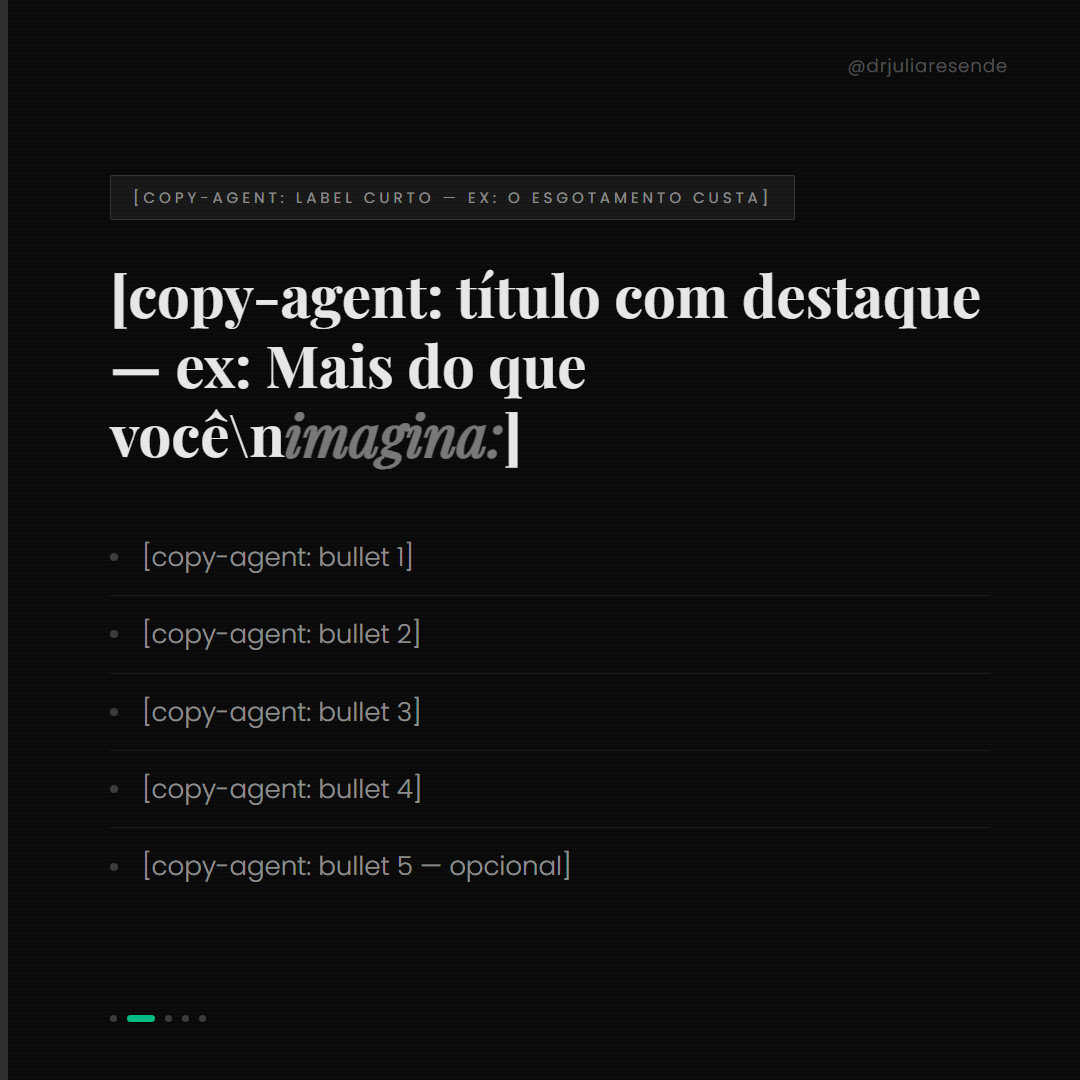
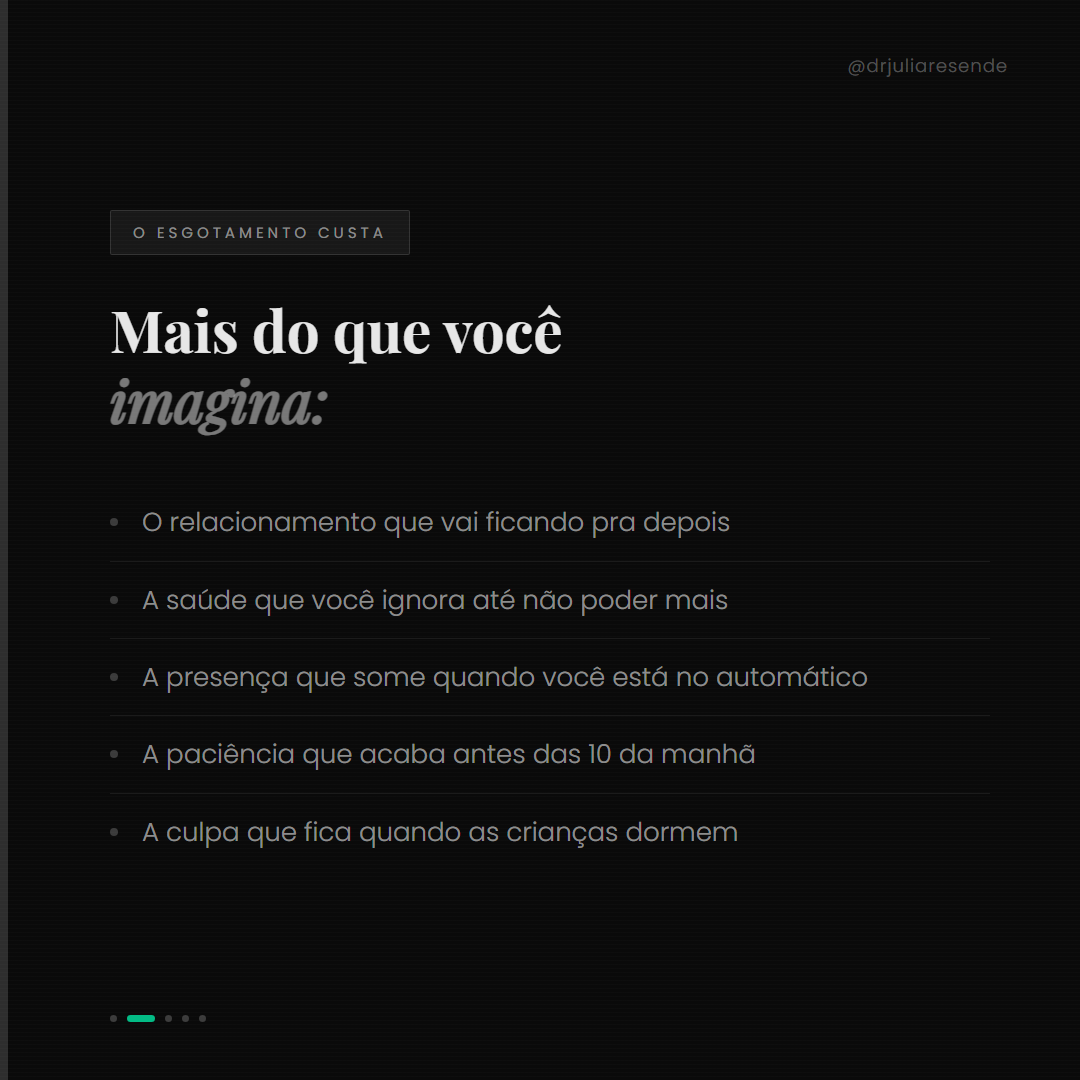
feat: carrossel-03 slides finais gerados — Briefing #2 copy real — 5 PNGs 2026-03-30

Changed region(s): [[0.0917, 0.1528, 0.9167, 0.825], [0.4889, 0.1528, 0.6111, 0.2139], [0.6417, 0.1528, 0.7028, 0.2139]]

diff --git a/squads/dr-julia-resende/carrossel-03/slide-03.html b/squads/dr-julia-resende/carrossel-03/slide-03.html
@@ -43,14 +43,15 @@
   <div class="accent-bar"></div>
   <div class="handle">@drjuliaresende</div>
   <div class="content">
-    <div class="label">[copy-agent: label curto — ex: Por que acontece]</div>
-    <h2 class="title">[copy-agent: título com destaque — ex: Não é falta de amor.\nÉ falta de <em>estrutura.</em>]</h2>
+    <div class="label">Por que acontece</div>
+    <h2 class="title">Não é falta de amor.<br>
+      É falta de <em>estrutura.</em></h2>
     <div class="list">
-      <div class="item"><div class="bullet"></div><span class="item-text">[copy-agent: bullet 1]</span></div>
-      <div class="item"><div class="bullet"></div><span class="item-text">[copy-agent: bullet 2]</span></div>
-      <div class="item"><div class="bullet"></div><span class="item-text">[copy-agent: bullet 3]</span></div>
-      <div class="item"><div class="bullet"></div><span class="item-text">[copy-agent: bullet 4]</span></div>
-      <div class="item"><div class="bullet"></div><span class="item-text">[copy-agent: bullet 5 — opcional]</span></div>
+      <div class="item"><div class="bullet"></div><span class="item-text">Você acorda sem saber o que vem primeiro</span></div>
+      <div class="item"><div class="bullet"></div><span class="item-text">As crianças ditam o ritmo — não você</span></div>
+      <div class="item"><div class="bullet"></div><span class="item-text">Qualquer imprevisto derruba o dia inteiro</span></div>
+      <div class="item"><div class="bullet"></div><span class="item-text">Você reage ao caos em vez de antecipar</span></div>
+      <div class="item"><div class="bullet"></div><span class="item-text">A rotina virou promessa que você quebra todo dia</span></div>
     </div>
   </div>
   <div class="dots">

diff --git a/squads/dr-julia-resende/carrossel-03/slide-02.html b/squads/dr-julia-resende/carrossel-03/slide-02.html
@@ -43,14 +43,15 @@
   <div class="accent-bar"></div>
   <div class="handle">@drjuliaresende</div>
   <div class="content">
-    <div class="label">[copy-agent: label curto — ex: O esgotamento custa]</div>
-    <h2 class="title">[copy-agent: título com destaque — ex: Mais do que você\n<em>imagina:</em>]</h2>
+    <div class="label">O esgotamento custa</div>
+    <h2 class="title">Mais do que você<br>
+      <em>imagina:</em></h2>
     <div class="list">
-      <div class="item"><div class="bullet"></div><span class="item-text">[copy-agent: bullet 1]</span></div>
-      <div class="item"><div class="bullet"></div><span class="item-text">[copy-agent: bullet 2]</span></div>
-      <div class="item"><div class="bullet"></div><span class="item-text">[copy-agent: bullet 3]</span></div>
-      <div class="item"><div class="bullet"></div><span class="item-text">[copy-agent: bullet 4]</span></div>
-      <div class="item"><div class="bullet"></div><span class="item-text">[copy-agent: bullet 5 — opcional]</span></div>
+      <div class="item"><div class="bullet"></div><span class="item-text">O relacionamento que vai ficando pra depois</span></div>
+      <div class="item"><div class="bullet"></div><span class="item-text">A saúde que você ignora até não poder mais</span></div>
+      <div class="item"><div class="bullet"></div><span class="item-text">A presença que some quando você está no automático</span></div>
+      <div class="item"><div class="bullet"></div><span class="item-text">A paciência que acaba antes das 10 da manhã</span></div>
+      <div class="item"><div class="bullet"></div><span class="item-text">A culpa que fica quando as crianças dormem</span></div>
     </div>
   </div>
   <div class="dots">

diff --git a/squads/dr-julia-resende/carrossel-03/slide-04.html b/squads/dr-julia-resende/carrossel-03/slide-04.html
@@ -42,11 +42,15 @@
   <div class="content">
     <div class="quote-mark">"</div>
     <h2 class="quote">
-      [copy-agent: citação principal — 3 a 4 linhas — ex: 7 minutos de rotina\nnão resolve <em>tudo.</em>\nMas resolve o suficiente\npara você <em>respirar.</em>]
+      7 minutos de rotina<br>
+      não resolve <em>tudo.</em><br>
+      Mas resolve o suficiente<br>
+      para você <em>respirar.</em>
     </h2>
     <div class="divider"></div>
     <p class="sub">
-      [copy-agent: frase de apoio à citação — 1 a 2 linhas]
+      Não precisa ser perfeita para funcionar.<br>
+      Precisa ser consistente.
     </p>
   </div>
   <div class="dots">

diff --git a/squads/dr-julia-resende/carrossel-03/slide-01.html b/squads/dr-julia-resende/carrossel-03/slide-01.html
@@ -54,10 +54,13 @@
   <div class="content">
     <p class="eyebrow">Dra. Julia Resende</p>
     <h1 class="hook">
-      [copy-agent: hook principal do carrossel — ex: Ter filho é lindo.\nÉ também <span>esgotante</span>\npra caramba.]
+      Ter filho é lindo.<br>
+      É também <span>esgotante</span><br>
+      pra caramba.
     </h1>
     <div class="divider"></div>
-    <p class="sub">[copy-agent: frase de apoio ao hook — 1 a 2 linhas]</p>
+    <p class="sub">Não é fraqueza sua.<br>
+      É falta de estrutura.</p>
     <div class="cta-tag">
       <span>deslize para entender</span>
       <span>→</span>

diff --git a/squads/dr-julia-resende/carrossel-03/slide-05.html b/squads/dr-julia-resende/carrossel-03/slide-05.html
@@ -48,7 +48,7 @@
       transformar o caos em paz</p>
     <div class="divider"></div>
     <div class="cta-block">
-      <span class="cta-line1">[copy-agent: linha de apoio sem números fabricados — ex: O método que mães usam para sair do caos.]</span>
+      <span class="cta-line1">O método que mães usam para sair do ciclo de apagar incêndios.</span>
       <span class="cta-line2">Link na Bio.</span>
       <span class="cta-arrow">↑</span>
     </div>
